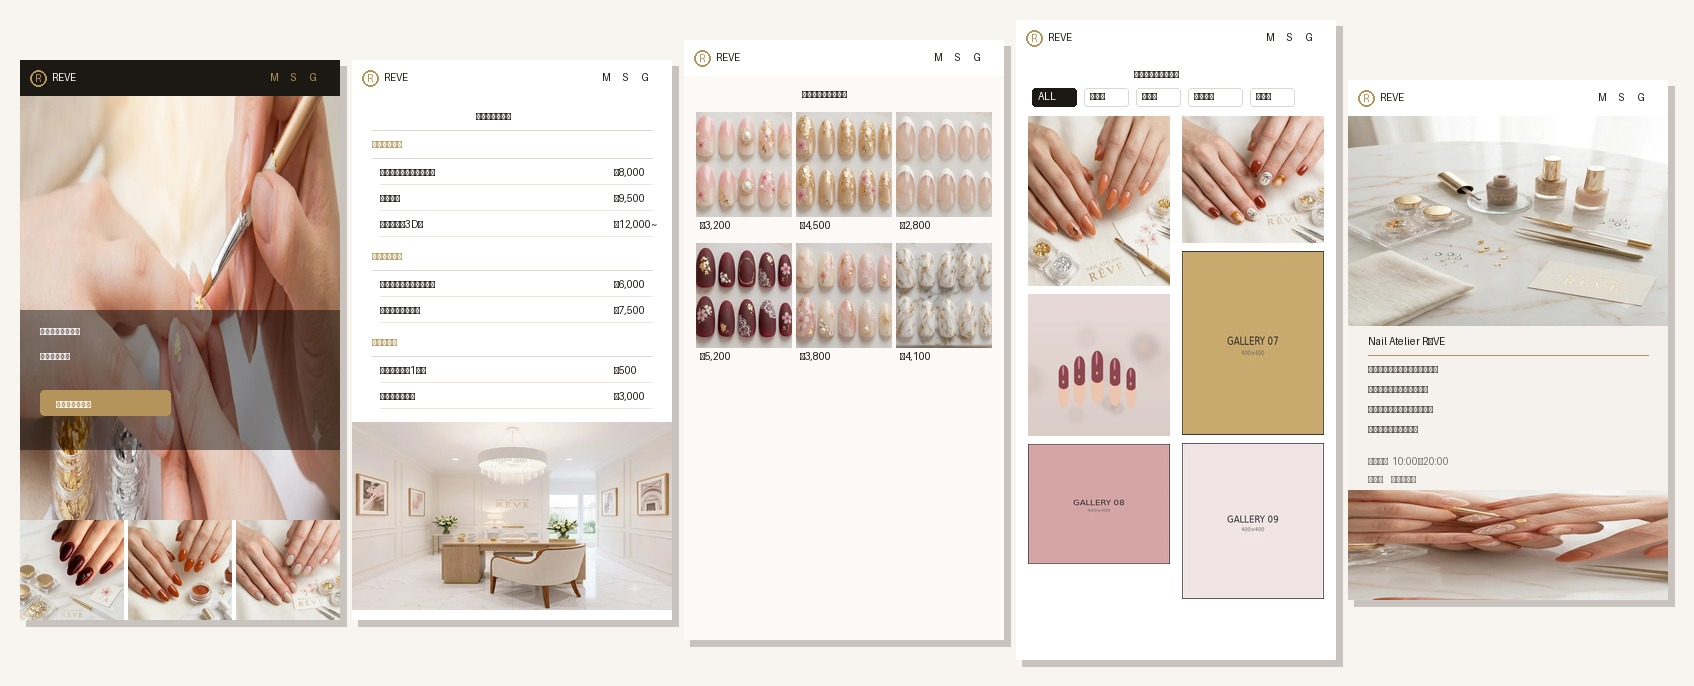
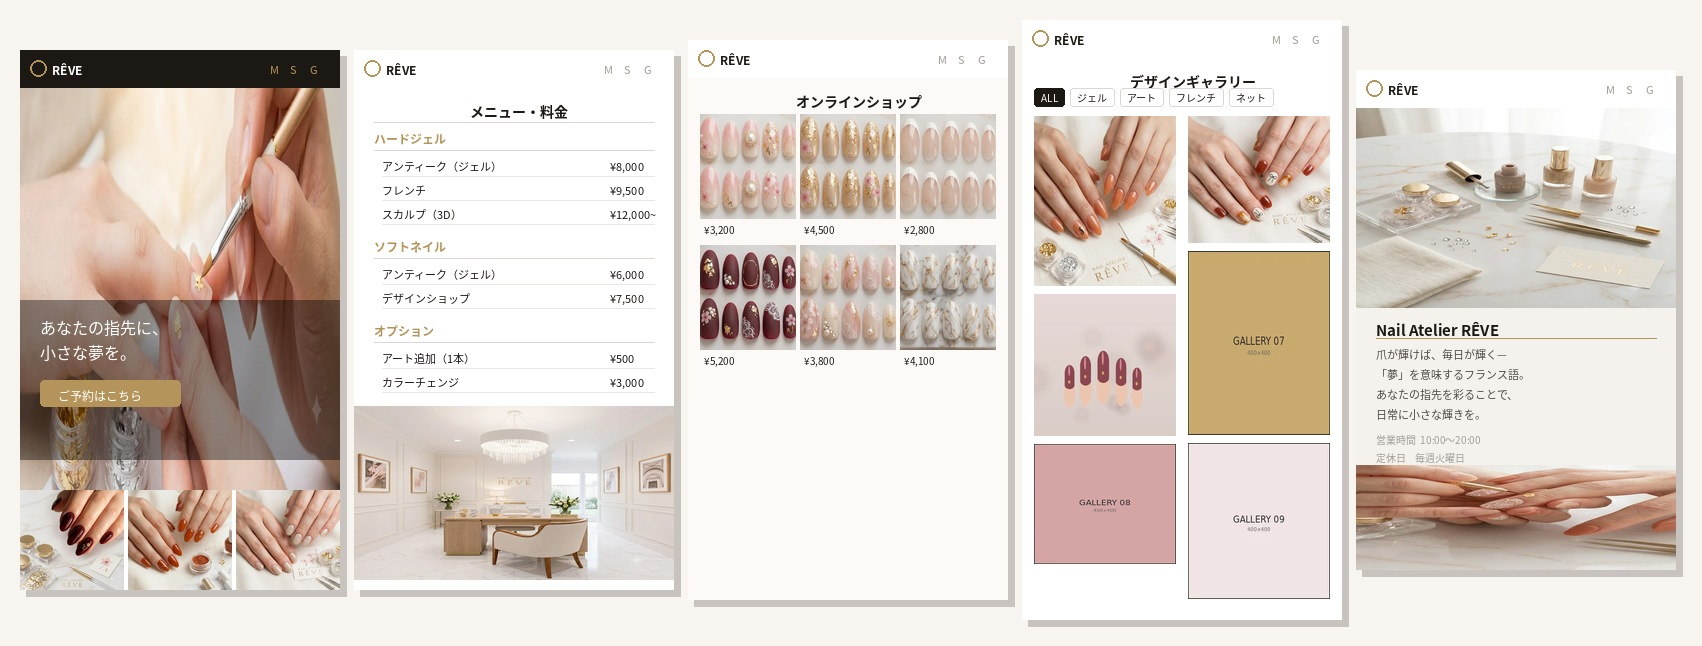
revert nail-atelier KV to nail-fullpage.jpg

diff --git a/css/style.css b/css/style.css
@@ -1205,26 +1205,6 @@ body {
   display: block;
 }
 
-/* collage style KV */
-.works-detail__kv--collage {
-  background-color: #f8f4f0;
-  overflow-x: auto;
-  padding: 24px 0;
-}
-
-.works-detail__kv--collage .works-detail__kv-img {
-  width: auto;
-  max-width: none;
-  height: 360px;
-  margin: 0 auto;
-  display: block;
-}
-
-@media (min-width: 768px) {
-  .works-detail__kv--collage .works-detail__kv-img {
-    height: 480px;
-  }
-}
 
 .works-detail__title-wrapper {
   display: flex;

diff --git a/nail-atelier.html b/nail-atelier.html
@@ -70,12 +70,12 @@
     </header>
 
     <main class="l_main">
-      <div class="works-detail__kv works-detail__kv--collage">
+      <div class="works-detail__kv">
         <img
-          src="img/reve-collage.jpg"
-          alt="Nail Atelier RÊVE - 全ページ一覧"
-          width="1694"
-          height="686"
+          src="img/nail-fullpage.jpg"
+          alt="Nail Atelier RÊVE"
+          width="1200"
+          height="675"
           class="works-detail__kv-img"
         />
       </div>